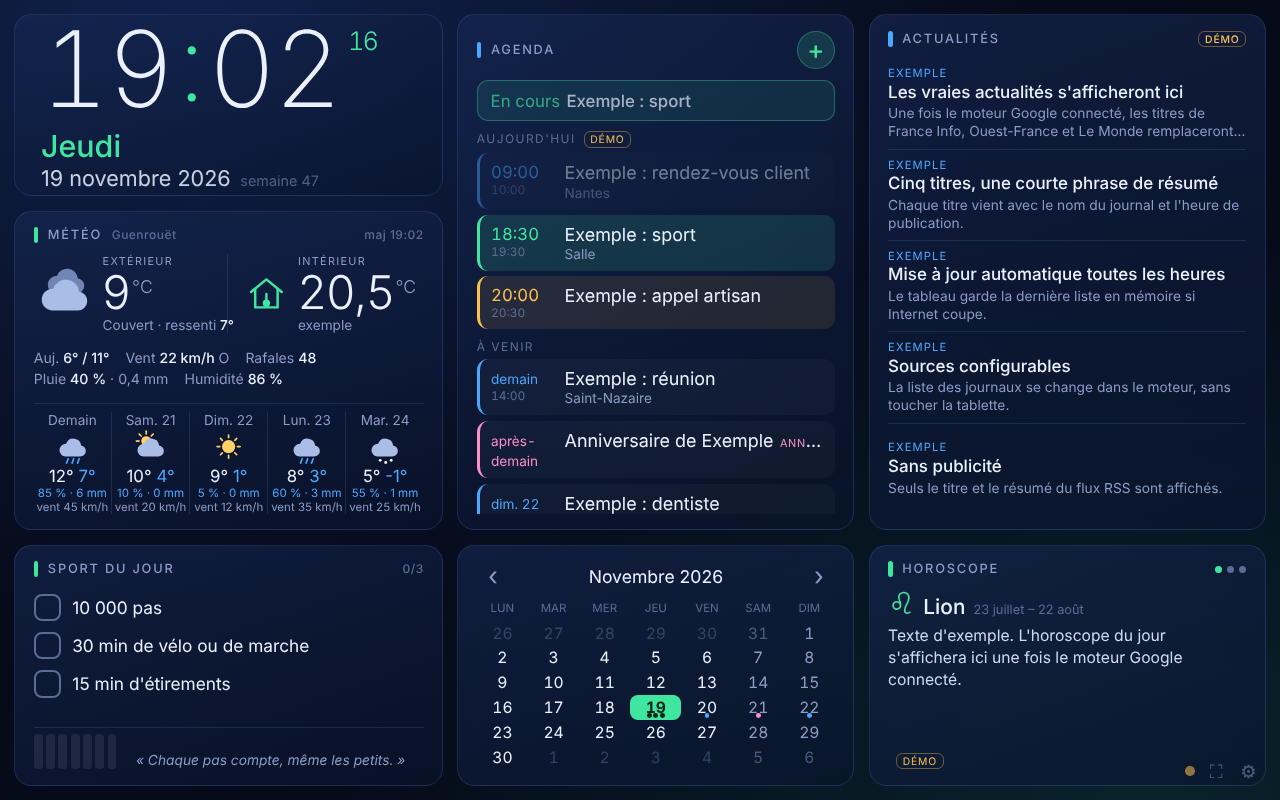
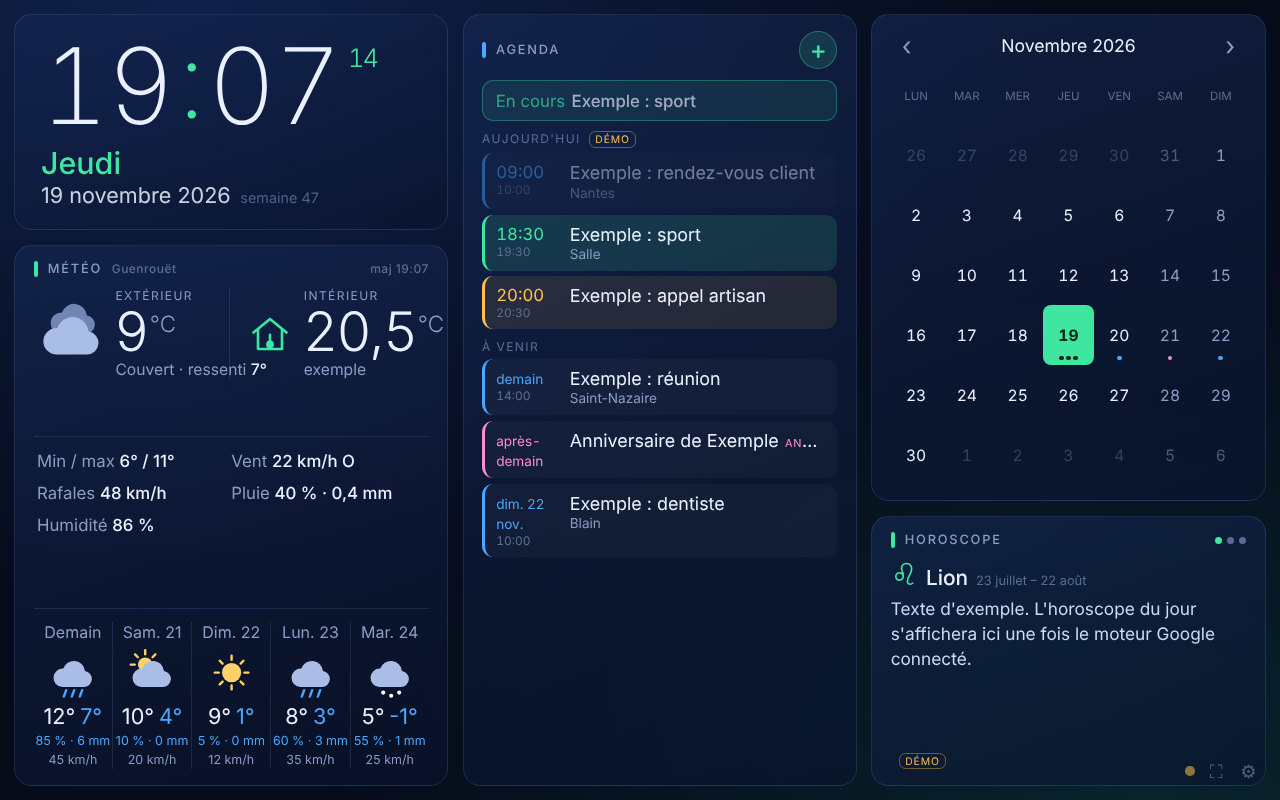
Retrait des modules actualités et sport, météo agrandie
Claude-Session: https://claude.ai/code/session_01EAZNttDNipT1W6GGXRZqMs

diff --git a/css/style.css b/css/style.css
@@ -39,19 +39,17 @@ button { font: inherit; color: inherit; background: none; border: 0; cursor: poi
   display: grid;
   padding: 0.9rem;
   grid-gap: 0.9rem;
-  grid-template-columns: 1.08fr 1fr 1fr;
-  grid-template-rows: 0.74fr 1.3fr 0.98fr;
+  grid-template-columns: 1.1fr 1fr 1fr;
+  grid-template-rows: 0.8fr 0.95fr 1fr;
   grid-template-areas:
-    "clock   agenda news"
-    "weather agenda news"
-    "sport   cal    horo";
+    "clock   agenda cal"
+    "weather agenda cal"
+    "weather agenda horo";
 }
 .c-clock { grid-area: clock; }
 .c-weather { grid-area: weather; }
-.c-sport { grid-area: sport; }
 .c-agenda { grid-area: agenda; }
 .c-cal { grid-area: cal; }
-.c-news { grid-area: news; }
 .c-horo { grid-area: horo; }
 
 .card {
@@ -93,25 +91,25 @@ button { font: inherit; color: inherit; background: none; border: 0; cursor: poi
 .wx-now { display: flex; align-items: center; flex: none; }
 .wx-temp { flex: 1; display: flex; align-items: center; min-width: 0; }
 .wx-temp + .wx-temp { border-left: 1px solid var(--line); padding-left: 1rem; margin-left: 0.8rem; }
-.wx-temp > svg { width: 3.8rem; height: 3.8rem; flex: none; margin-right: 0.5rem; }
-.wx-label { font-size: 0.68rem; letter-spacing: 0.12em; text-transform: uppercase; color: var(--muted); }
-.wx-deg { font-size: 2.9rem; font-weight: 300; line-height: 1.05; white-space: nowrap; }
-.wx-deg sup { font-size: 1.1rem; color: var(--muted); margin-left: 0.1rem; }
-.wx-sub { font-size: 0.85rem; color: var(--muted); white-space: nowrap; overflow: hidden; text-overflow: ellipsis; }
+.wx-temp > svg { width: 4.6rem; height: 4.6rem; flex: none; margin-right: 0.5rem; }
+.wx-label { font-size: 0.75rem; letter-spacing: 0.12em; text-transform: uppercase; color: var(--muted); }
+.wx-deg { font-size: 3.4rem; font-weight: 300; line-height: 1.05; white-space: nowrap; }
+.wx-deg sup { font-size: 1.4rem; color: var(--muted); margin-left: 0.1rem; }
+.wx-sub { font-size: 0.98rem; color: var(--muted); white-space: nowrap; overflow: hidden; text-overflow: ellipsis; }
 .wx-sub b { color: var(--text); font-weight: 500; }
-.wx-in-icon { width: 2.8rem; height: 2.8rem; flex: none; margin-right: 0.6rem; color: var(--green); }
+.wx-in-icon { width: 3rem; height: 3rem; flex: none; margin-right: 0.6rem; color: var(--green); }
 .wx-in-icon svg { width: 100%; height: 100%; }
-.wx-facts { display: flex; flex-wrap: wrap; font-size: 0.88rem; color: var(--muted); margin: 0.5rem 0; flex: none; }
-.wx-facts span { margin-right: 1rem; white-space: nowrap; line-height: 1.5; }
+.wx-facts { display: flex; flex-wrap: wrap; font-size: 1.05rem; color: var(--muted); margin: 0.8rem 0; padding: 0.6rem 0.2rem; border-top: 1px solid var(--line); flex: none; }
+.wx-facts span { width: 50%; white-space: nowrap; line-height: 1.9; }
 .wx-facts b { color: var(--text); font-weight: 500; }
-.wx-days { display: flex; border-top: 1px solid var(--line); padding-top: 0.5rem; flex: none; }
+.wx-days { display: flex; border-top: 1px solid var(--line); padding-top: 0.8rem; flex: none; }
 .wx-day { flex: 1; text-align: center; min-width: 0; }
 .wx-day + .wx-day { border-left: 1px solid var(--line); }
-.wx-day .d { font-size: 0.85rem; color: var(--muted); text-transform: capitalize; }
-.wx-day svg { width: 2.2rem; height: 2.2rem; display: block; margin: 0.1rem auto; }
-.wx-day .t { font-size: 1.05rem; }
+.wx-day .d { font-size: 1rem; color: var(--muted); text-transform: capitalize; }
+.wx-day svg { width: 3.2rem; height: 3.2rem; display: block; margin: 0.3rem auto; }
+.wx-day .t { font-size: 1.35rem; margin-bottom: 0.2rem; }
 .wx-day .t .min { color: var(--blue); margin-left: 0.3rem; }
-.wx-day .r { font-size: 0.72rem; color: var(--muted); white-space: nowrap; }
+.wx-day .r { font-size: 0.78rem; line-height: 1.5; color: var(--muted); white-space: nowrap; }
 .wx-day .r.rain { color: var(--blue); }
 
 /* ---------- Agenda ---------- */
@@ -166,48 +164,18 @@ button { font: inherit; color: inherit; background: none; border: 0; cursor: poi
 .cal-day .dot.bd { background: #ff8fc8; }
 .cal-day.today .dot { background: #04261a; }
 
-/* ---------- Actualités ---------- */
-#nw-body { flex: 1; display: flex; flex-direction: column; min-height: 0; }
-.nw {
-  flex: 1; min-height: 0; overflow: hidden; padding: 0.45rem 0; border-bottom: 1px solid var(--line);
-  display: flex; flex-direction: column; justify-content: center;
-}
-.nw:last-child { border-bottom: 0; }
-.nw .src { font-size: 0.7rem; letter-spacing: 0.1em; text-transform: uppercase; color: var(--blue); }
-.nw .src span { color: var(--dim); margin-left: 0.4rem; letter-spacing: 0.02em; text-transform: none; }
-.nw .ttl { font-size: 1.06rem; font-weight: 500; line-height: 1.25; margin-top: 0.1rem; display: -webkit-box; -webkit-line-clamp: 2; -webkit-box-orient: vertical; overflow: hidden; }
-.nw .sum { font-size: 0.86rem; color: var(--muted); line-height: 1.3; margin-top: 0.15rem; display: -webkit-box; -webkit-line-clamp: 2; -webkit-box-orient: vertical; overflow: hidden; }
-
 /* ---------- Horoscope ---------- */
 #hr-body { flex: 1; min-height: 0; display: flex; flex-direction: column; }
 .hr-sign { display: flex; align-items: baseline; }
 .hr-glyph { font-size: 1.9rem; color: var(--green); margin-right: 0.5rem; line-height: 1; }
 .hr-name { font-size: 1.3rem; font-weight: 500; }
 .hr-name small { font-size: 0.8rem; color: var(--dim); margin-left: 0.5rem; font-weight: 400; }
-.hr-text { font-size: 0.98rem; line-height: 1.4; color: #cfd9f5; margin-top: 0.4rem; overflow: hidden; display: -webkit-box; -webkit-line-clamp: 6; -webkit-box-orient: vertical; }
+.hr-text { font-size: 1.08rem; line-height: 1.45; color: #cfd9f5; margin-top: 0.4rem; overflow: hidden; display: -webkit-box; -webkit-line-clamp: 9; -webkit-box-orient: vertical; }
 .hr-src { font-size: 0.7rem; color: var(--dim); margin-top: auto; padding-top: 0.3rem; }
 .hr-dot { display: inline-block; width: 0.45rem; height: 0.45rem; border-radius: 50%; background: var(--dim); margin-left: 0.3rem; }
 .hr-dot.on { background: var(--green); }
 .fade { animation: fade 0.5s ease; }
 @keyframes fade { from { opacity: 0; } to { opacity: 1; } }
-
-/* ---------- Sport ---------- */
-#sp-body { flex: 1; display: flex; flex-direction: column; min-height: 0; }
-.sp-goals { flex: 1; min-height: 0; overflow-y: auto; }
-.goal { display: flex; align-items: center; width: 100%; text-align: left; padding: 0.35rem 0; font-size: 1.08rem; }
-.goal .box {
-  width: 1.7rem; height: 1.7rem; flex: none; border-radius: 0.5rem; margin-right: 0.7rem;
-  border: 2px solid var(--dim); display: flex; align-items: center; justify-content: center; color: #04261a; font-weight: 700;
-}
-.goal.done .box { background: var(--green); border-color: var(--green); }
-.goal.done .lbl { color: var(--muted); text-decoration: line-through; }
-.sp-foot { display: flex; align-items: flex-end; flex: none; padding-top: 0.4rem; border-top: 1px solid var(--line); }
-.sp-week { display: flex; align-items: flex-end; height: 2.2rem; margin-right: 1rem; flex: none; }
-.sp-bar { width: 0.55rem; margin-right: 0.22rem; border-radius: 0.2rem; background: rgba(255,255,255,0.08); position: relative; height: 100%; }
-.sp-bar i { position: absolute; left: 0; right: 0; bottom: 0; border-radius: 0.2rem; background: var(--green); }
-.sp-bar.today i { background: var(--blue); }
-.sp-quote { font-size: 0.86rem; font-style: italic; color: var(--muted); line-height: 1.3; }
-.sp-quote small { font-style: normal; color: var(--dim); }
 
 /* ---------- Barre d'outils, nuit, statut ---------- */
 .toolbar { position: fixed; right: 0.9rem; bottom: 0.9rem; display: flex; align-items: center; opacity: 0.55; }
@@ -266,12 +234,11 @@ button { font: inherit; color: inherit; background: none; border: 0; cursor: poi
       "clock   clock"
       "weather weather"
       "agenda  cal"
-      "news    news"
-      "sport   horo";
+      "horo    horo";
   }
   .c-clock { min-height: 12rem; }
   .c-agenda { max-height: 26rem; }
 }
 @media (max-width: 560px) {
-  .grid { grid-template-columns: 1fr; grid-template-areas: "clock" "weather" "agenda" "cal" "news" "sport" "horo"; }
+  .grid { grid-template-columns: 1fr; grid-template-areas: "clock" "weather" "agenda" "cal" "horo"; }
 }

diff --git a/js/settings.js b/js/settings.js
@@ -1,4 +1,4 @@
-/* Écran de réglages : connexion au moteur Google, signes, objectifs sportifs, mode nuit */
+/* Écran de réglages : connexion au moteur Google, signes, lieu, mode nuit */
 var Settings = (function () {
   var KEY = "dash.settings";
   var s = U.load(KEY, {});
@@ -20,13 +20,11 @@ var Settings = (function () {
       return '<label><input type="checkbox" value="' + k + '"' + (g.signes.indexOf(k) >= 0 ? " checked" : "") + "> " + Horoscope.SIGNES[k].n + "</label>";
     }).join("");
     var html = "<h2>Réglages</h2>" +
-      "<h3>Moteur Google (agenda, actualités, horoscope, Cozytouch)</h3>" +
+      "<h3>Moteur Google (agenda, horoscope, Cozytouch)</h3>" +
       '<div class="field"><label>Adresse du moteur (URL Apps Script se terminant par /exec)</label><input type="url" id="s-url" value="' + U.esc(be.url || "") + '"></div>' +
       '<div class="field"><label>Code secret</label><input type="text" id="s-token" value="' + U.esc(be.token || "") + '" autocomplete="off"></div>' +
       '<p class="note" id="s-test"></p>' +
       "<h3>Horoscope</h3><div class=\"signs\" id=\"s-signs\">" + signs + "</div>" +
-      "<h3>Objectifs sportifs (un par ligne)</h3>" +
-      '<div class="field"><textarea id="s-goals">' + U.esc(Sport.getGoals().join("\n")) + "</textarea></div>" +
       "<h3>Lieu de la météo</h3>" +
       '<div class="row"><div class="field"><label>Ville</label><input type="text" id="s-ville" value="' + U.esc(g.ville) + '"></div>' +
       '<div class="field"><label>Latitude</label><input type="number" step="0.0001" id="s-lat" value="' + g.latitude + '"></div>' +
@@ -41,7 +39,6 @@ var Settings = (function () {
     U.$("s-save").onclick = function () {
       var url = U.$("s-url").value.trim(), token = U.$("s-token").value.trim();
       var signes = [].slice.call(document.querySelectorAll("#s-signs input:checked")).map(function (i) { return i.value; });
-      var goals = U.$("s-goals").value.split("\n").map(function (l) { return l.trim(); }).filter(Boolean);
       s = {
         ville: U.$("s-ville").value.trim(), latitude: +U.$("s-lat").value, longitude: +U.$("s-lon").value,
         signes: signes, nuitDebut: +U.$("s-n1").value, nuitFin: +U.$("s-n2").value
@@ -52,14 +49,12 @@ var Settings = (function () {
         note.className = "note"; note.textContent = "Test de connexion…";
         API.get("ping", {}, { url: url, token: token }).then(function () {
           API.setCfg({ url: url, token: token });
-          Sport.setGoals(goals);
           location.reload();
         }).catch(function (e) {
           note.className = "note err"; note.textContent = "Connexion impossible : " + (e.message || e) + ". Vérifie l'adresse et le code.";
         });
       } else {
         API.setCfg(null);
-        Sport.setGoals(goals);
         location.reload();
       }
     };

diff --git a/js/weather.js b/js/weather.js
@@ -79,10 +79,10 @@ var Weather = (function () {
       "</div>";
 
     html += '<div class="wx-facts">' +
-      "<span>Auj. <b>" + r(dl.temperature_2m_min[0]) + "° / " + r(dl.temperature_2m_max[0]) + "°</b></span>" +
-      "<span>Vent <b>" + r(c.wind_speed_10m) + " km/h</b> " + windDir(c.wind_direction_10m) + "</span>" +
-      "<span>Rafales <b>" + r(c.wind_gusts_10m) + "</b></span>" +
-      "<span>Pluie <b>" + (dl.precipitation_probability_max[0] == null ? "–" : dl.precipitation_probability_max[0] + " %") + "</b> · " + r1(dl.precipitation_sum[0]) + " mm</span>" +
+      "<span>Min / max <b>" + r(dl.temperature_2m_min[0]) + "° / " + r(dl.temperature_2m_max[0]) + "°</b></span>" +
+      "<span>Vent <b>" + r(c.wind_speed_10m) + " km/h " + windDir(c.wind_direction_10m) + "</b></span>" +
+      "<span>Rafales <b>" + r(c.wind_gusts_10m) + " km/h</b></span>" +
+      "<span>Pluie <b>" + (dl.precipitation_probability_max[0] == null ? "–" : dl.precipitation_probability_max[0] + " %") + " · " + mm(dl.precipitation_sum[0]) + "</b></span>" +
       "<span>Humidité <b>" + r(c.relative_humidity_2m) + " %</b></span>" +
       "</div>";
 
@@ -94,7 +94,7 @@ var Weather = (function () {
         icon(dl.weather_code[i], 1) +
         '<div class="t">' + r(dl.temperature_2m_max[i]) + '°<span class="min">' + r(dl.temperature_2m_min[i]) + "°</span></div>" +
         '<div class="r rain">' + (p == null ? "" : p + " % · ") + mm(dl.precipitation_sum[i]) + "</div>" +
-        '<div class="r">vent ' + r(dl.wind_speed_10m_max[i]) + " km/h</div></div>";
+        '<div class="r">' + r(dl.wind_speed_10m_max[i]) + " km/h</div></div>";
     }
     html += "</div>";
     body.innerHTML = html;

diff --git a/index.html b/index.html
@@ -24,10 +24,6 @@
     <div class="wx-body" id="wx-body"><div class="loading">Chargement…</div></div>
   </section>
 
-  <section class="card c-sport" id="w-sport">
-    <header class="card-h"><span class="bar"></span>Sport du jour <small class="upd" id="sp-score"></small></header>
-    <div id="sp-body"></div>
-  </section>
 
   <section class="card c-agenda" id="w-agenda">
     <header class="card-h"><span class="bar blue"></span>Agenda <small class="upd" id="ag-upd"></small>
@@ -45,10 +41,6 @@
     <div class="cal-grid" id="cal-grid"></div>
   </section>
 
-  <section class="card c-news" id="w-news">
-    <header class="card-h"><span class="bar blue"></span>Actualités <small class="upd" id="nw-upd"></small></header>
-    <div id="nw-body"><div class="loading">Chargement…</div></div>
-  </section>
 
   <section class="card c-horo" id="w-horo">
     <header class="card-h"><span class="bar"></span>Horoscope <small class="upd" id="hr-dots"></small></header>
@@ -75,9 +67,7 @@
 <script src="js/clock.js"></script>
 <script src="js/weather.js"></script>
 <script src="js/agenda.js"></script>
-<script src="js/news.js"></script>
 <script src="js/horoscope.js"></script>
-<script src="js/sport.js"></script>
 <script src="js/settings.js"></script>
 <script src="js/main.js"></script>
 </body>

diff --git a/js/main.js b/js/main.js
@@ -4,9 +4,7 @@
   Clock.start();
   Weather.start();
   Agenda.start();
-  News.start();
   Horoscope.start();
-  Sport.start();
 
   U.$("btn-settings").onclick = Settings.open;
 
@@ -50,7 +48,7 @@
   }, 5 * 60000);
 
   /* Retour de connexion : on rafraîchit tout */
-  window.addEventListener("online", function () { Weather.refresh(); Agenda.refresh(); News.refresh(); Horoscope.refresh(); });
+  window.addEventListener("online", function () { Weather.refresh(); Agenda.refresh(); Horoscope.refresh(); });
 
   if ("serviceWorker" in navigator && location.protocol === "https:") {
     navigator.serviceWorker.register("sw.js").catch(function () { });

diff --git a/js/config.js b/js/config.js
@@ -4,13 +4,11 @@ var CONFIG = {
   latitude: 47.5194,
   longitude: -1.9568,
   signes: ["lion", "sagittaire", "vierge"],
-  objectifsSport: ["10 000 pas", "30 min de vélo ou de marche", "15 min d'étirements"],
   nuitDebut: 23,   /* heure à laquelle l'écran s'assombrit */
   nuitFin: 6,      /* heure à laquelle il redevient normal */
   rafraichir: {    /* en minutes */
     meteo: 15,
     agenda: 5,
-    actualites: 60,
     horoscope: 180,
     interieur: 5
   }
